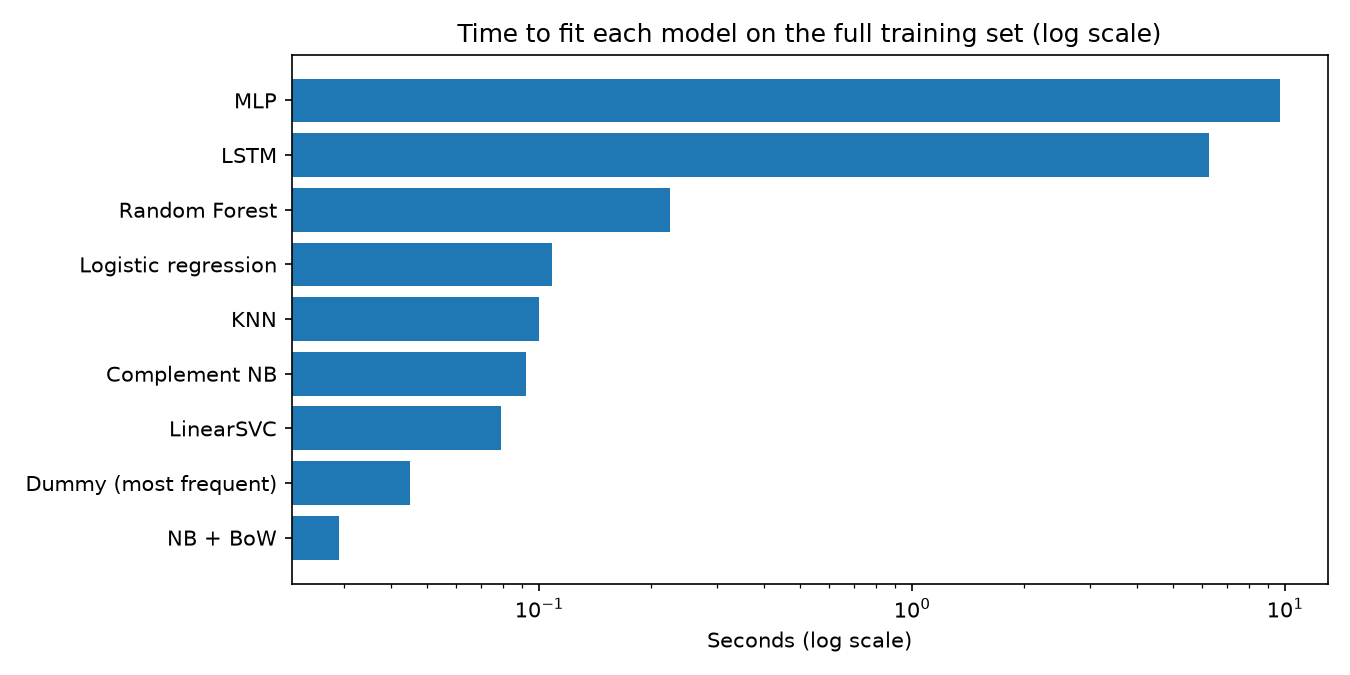
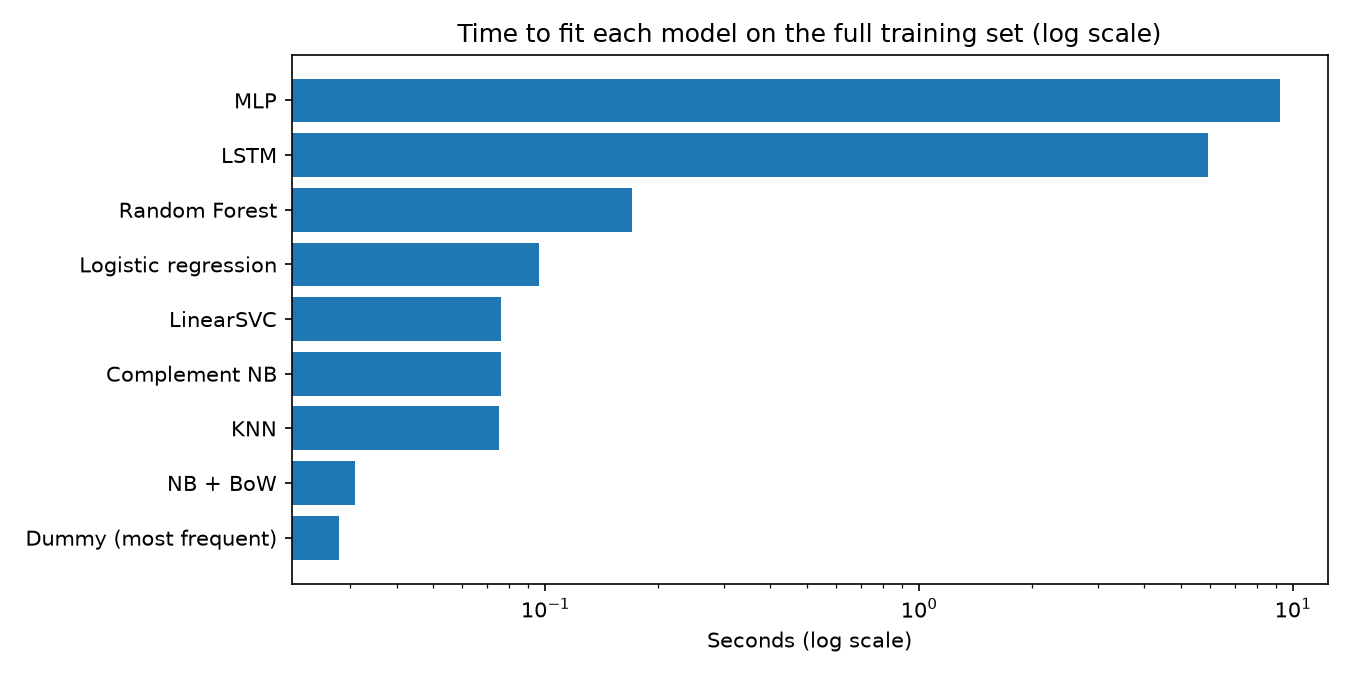
Q2.2: rule-based enhancement (grid search + targeted fixes), Rule 2 selects logistic regression, final test once

diff --git a/notebooks/Q1_Q2_abstract_classification.py b/notebooks/Q1_Q2_abstract_classification.py
@@ -676,14 +676,16 @@ def build_lstm():
     model.compile(optimizer="adam", loss="binary_crossentropy")
     return model
 
-def fit_lstm(x_texts, y_labels, seed):
+#def fit_lstm(x_texts, y_labels, seed):
+def fit_lstm(x_texts, y_labels, seed, class_weight=None):
     keras.utils.set_random_seed(seed)
     tv = layers.TextVectorization(max_tokens=VOCAB, output_sequence_length=SEQ_LEN)
     tv.adapt(x_texts.values)                           # vocabulary from the training part only
     model = build_lstm()
     stop = keras.callbacks.EarlyStopping(monitor="val_loss", patience=5, restore_best_weights=True)
     model.fit(tv(x_texts.values), (y_labels == "ai").astype(int).values, epochs=40, batch_size=32,
-              validation_split=0.15, callbacks=[stop], verbose=0)
+#              validation_split=0.15, callbacks=[stop], verbose=0)
+              validation_split=0.15, callbacks=[stop], verbose=0, class_weight=class_weight)
     return tv, model
 
 def predict_lstm(tv, model, x_texts):
@@ -768,3 +770,181 @@ ax.set_xscale("log")
 ax.set_title("Time to fit each model on the full training set (log scale)")
 ax.set_xlabel("Seconds (log scale)")
 savefig(fig, "Q2_04_fit_time")
+
+# %% Q2.2 (A) The rules, written BEFORE any tuning is run
+# Rule 1 (which models are tuned): tune every model whose grid search fits the time budget;
+#         a model that does not fit gets ONE targeted fix for its diagnosed weakness instead.
+# Rule 2 (which tuned model is final): highest tuned CV macro-F1. Models within TIE_MARGIN of the best
+#         are treated as tied and separated by TIE_BREAK, in order.
+# TIE_MARGIN is fixed: it is only revisited if all seven models tie.
+from sklearn.model_selection import GridSearchCV
+
+TIME_BUDGET_S = 300            # 5 minutes per model
+TIE_MARGIN    = 0.01           # smaller than every model's fold std (~0.015-0.04), so a smaller gap is noise
+TIE_BREAK     = ["gives probabilities", "lower fold std", "higher CV AI recall", "faster fit"]
+
+def feature_grid(extra):
+    # Same feature options for every model: counts or TF-IDF, unigrams or uni+bigrams, min_df 1 or 2
+    common = {"v__ngram_range": [(1, 1), (1, 2)], "v__min_df": [1, 2], **extra}
+    return [{"v": [CountVectorizer()], **common},
+            {"v": [TfidfVectorizer()], "v__sublinear_tf": [False, True], **common}]
+
+grids = {
+    "Complement NB":       feature_grid({"m__alpha": [0.01, 0.03, 0.1, 0.3, 1.0]}),
+    "Logistic regression": feature_grid({"m__C": [0.1, 1, 10, 100, 300, 1000], "m__class_weight": [None, "balanced"]}),
+    "LinearSVC":           feature_grid({"m__C": [0.1, 0.5, 1, 5, 10, 20], "m__class_weight": [None, "balanced"]}),
+    "Random Forest":       feature_grid({"m__max_features": ["sqrt", "log2"], "m__min_samples_leaf": [1, 2],
+                                         "m__class_weight": [None, "balanced"]}),
+    "KNN":                 feature_grid({"m__n_neighbors": [3, 5, 11, 21, 31], "m__weights": ["uniform", "distance"]}),
+    "MLP":                 feature_grid({"m__alpha": [1e-4, 1e-3, 1e-2], "m__hidden_layer_sizes": [(50,), (100,)]}),
+}
+tunable_models = {
+    "Complement NB": ComplementNB(), "Logistic regression": LogisticRegression(max_iter=3000),
+    "LinearSVC": LinearSVC(max_iter=20000), "Random Forest": RandomForestClassifier(random_state=SEED, n_jobs=-1),
+    "KNN": KNeighborsClassifier(), "MLP": MLPClassifier(random_state=SEED, max_iter=300),
+}
+
+def n_combos(grid):
+    total = 0
+    for sub in grid:
+        n = 1
+        for values in sub.values():
+            n *= len(values)
+        total += n
+    return total
+
+# %% Q2.2 (B) Test the rules against every model, BEFORE tuning
+LSTM_GRID_SIZE = 12   # e.g. 3 layer sizes x 2 class weightings x 2 learning rates - the smallest sensible LSTM grid
+rule_tests = []
+for name in list(tunable_models) + ["LSTM"]:
+    size = LSTM_GRID_SIZE if name == "LSTM" else n_combos(grids[name])
+    est_s = q21_results.loc[name, "fit time (s)"] * size * 5      # one fit x combinations x 5 folds (sequential, so conservative)
+    has_proba = True if name == "LSTM" else hasattr(tunable_models[name], "predict_proba")
+    rule_tests.append({"model": name, "grid combinations": size, "est. search time (s)": round(est_s),
+                       "within 5-min budget": est_s <= TIME_BUDGET_S, "gives probabilities": has_proba})
+rule_tests = pd.DataFrame(rule_tests).set_index("model")
+rule_tests["Rule 1 decision"] = np.where(rule_tests["within 5-min budget"], "full grid search", "one targeted fix")
+print(rule_tests.to_string())
+rule_tests.to_csv(TAB / "Q2_02_rule_tests.csv")
+
+# %% Q2.2 (C) Run the grid searches for every model that passed Rule 1
+tuned = {}
+for name in rule_tests.index[rule_tests["within 5-min budget"]]:
+    t0 = time.perf_counter()
+    gs = GridSearchCV(Pipeline([("v", TfidfVectorizer()), ("m", tunable_models[name])]), grids[name],
+                      scoring=scoring, refit="f1_macro", cv=cv, n_jobs=-1, return_train_score=True)
+    gs.fit(X_tr, y_tr)                                   # training data only - the test set is not touched
+    tuned[name] = gs
+    print(f"{name:20s} {n_combos(grids[name]):4d} combos in {time.perf_counter() - t0:6.1f} s | "
+          f"best CV macro-F1 {gs.best_score_:.3f} | "
+          f"{ {k: (type(v).__name__ if k == 'v' else v) for k, v in gs.best_params_.items()} }")
+
+# %% Q2.2 (D) Targeted fixes for the models that failed Rule 1's time budget
+# MLP - diagnosed weakness: overfitting (CV train 1.000 vs validation 0.817). Fix: early stopping.
+mlp_fix = Pipeline([("v", tfidf()), ("m", MLPClassifier(random_state=SEED, max_iter=300, early_stopping=True))])
+r = cross_validate(mlp_fix, X_tr, y_tr, cv=cv, scoring=scoring, return_train_score=True)
+fixes = {"MLP": {"fix": "early_stopping=True", "CV train macro-F1": r["train_f1_macro"].mean(),
+                 "CV macro-F1": r["test_f1_macro"].mean(), "CV std": r["test_f1_macro"].std(),
+                 "CV AI recall": r["test_ai_recall"].mean()}}
+print("MLP fix done")
+
+# LSTM - diagnosed weakness: collapses to the majority class (AI recall 0.222). Fix: class weights.
+tr_f1, va_f1, va_rec = [], [], []
+for k, (a, b) in enumerate(cv.split(X_tr, y_tr)):
+    ya = y_tr.iloc[a]
+    cw = {0: 1.0, 1: (ya == "classical").sum() / (ya == "ai").sum()}   # weight AI by the class ratio in this fold
+    tv, m = fit_lstm(X_tr.iloc[a], ya, SEED + k, class_weight=cw)
+    tr_f1.append(f1_score(ya, predict_lstm(tv, m, X_tr.iloc[a]), average="macro"))
+    pb = predict_lstm(tv, m, X_tr.iloc[b])
+    va_f1.append(f1_score(y_tr.iloc[b], pb, average="macro"))
+    va_rec.append(recall_score(y_tr.iloc[b], pb, pos_label="ai"))
+    print(f"LSTM (class-weighted) fold {k + 1}/5 done")
+fixes["LSTM"] = {"fix": "class weights", "CV train macro-F1": np.mean(tr_f1), "CV macro-F1": np.mean(va_f1),
+                 "CV std": np.std(va_f1), "CV AI recall": np.mean(va_rec)}
+
+# %% Q2.2 (E) Before vs after for all seven, then apply Rule 2 to choose the final model
+rows = []
+for name, gs in tuned.items():
+    i = gs.best_index_
+    rows.append({"model": name, "enhancement": "grid search",
+                 "default CV macro-F1": q21_results.loc[name, "CV val macro-F1"],
+                 "enhanced CV macro-F1": gs.best_score_, "enhanced CV std": gs.cv_results_["std_test_f1_macro"][i],
+                 "enhanced CV AI recall": gs.cv_results_["mean_test_ai_recall"][i],
+                 "enhanced CV train macro-F1": gs.cv_results_["mean_train_f1_macro"][i],
+                 "fit time (s)": gs.refit_time_, "gives probabilities": rule_tests.loc[name, "gives probabilities"]})
+for name, f in fixes.items():
+    rows.append({"model": name, "enhancement": f["fix"],
+                 "default CV macro-F1": q21_results.loc[name, "CV val macro-F1"],
+                 "enhanced CV macro-F1": f["CV macro-F1"], "enhanced CV std": f["CV std"],
+                 "enhanced CV AI recall": f["CV AI recall"], "enhanced CV train macro-F1": f["CV train macro-F1"],
+                 "fit time (s)": q21_results.loc[name, "fit time (s)"], "gives probabilities": True})
+enhanced = pd.DataFrame(rows).set_index("model")
+enhanced["gain"] = enhanced["enhanced CV macro-F1"] - enhanced["default CV macro-F1"]
+enhanced["beats NB baseline (0.843)"] = enhanced["enhanced CV macro-F1"] > nb_cv
+enhanced = enhanced.sort_values("enhanced CV macro-F1", ascending=False)
+print(enhanced.round(3).to_string())
+enhanced.round(4).to_csv(TAB / "Q2_03_enhanced_vs_default.csv")
+
+# Rule 2
+best = enhanced["enhanced CV macro-F1"].max()
+tied = enhanced[enhanced["enhanced CV macro-F1"] >= best - TIE_MARGIN].copy()
+print(f"\nBest enhanced CV macro-F1 = {best:.4f}; tied (within {TIE_MARGIN}):", list(tied.index))
+ranked = tied.sort_values(["gives probabilities", "enhanced CV std", "enhanced CV AI recall", "fit time (s)"],
+                          ascending=[False, True, False, True])          # TIE_BREAK order, applied in sequence
+print(ranked[["enhanced CV macro-F1", "gives probabilities", "enhanced CV std",
+              "enhanced CV AI recall", "fit time (s)"]].round(4).to_string())
+final_name = ranked.index[0]
+print("\nFinal model by Rule 2:", final_name)
+
+# %% Q2.2 (F) Charts: default vs enhanced for all seven, and the tuning heatmap for the final model
+fig, ax = plt.subplots(figsize=(11, 5))
+xpos = np.arange(len(enhanced))
+ax.bar(xpos - 0.2, enhanced["default CV macro-F1"], 0.4, label="default (Q2.1)")
+ax.bar(xpos + 0.2, enhanced["enhanced CV macro-F1"], 0.4, label="enhanced (Q2.2)",
+       yerr=enhanced["enhanced CV std"], capsize=3)
+ax.axhline(nb_cv, linestyle="--", color="tab:red", label=f"NB baseline ({nb_cv:.3f})")
+ax.set_xticks(xpos, enhanced.index, rotation=30, ha="right")
+ax.set_ylim(0, 1.1)
+ax.set_ylabel("CV macro-F1")
+ax.set_title("Default vs enhanced CV macro-F1 per model (error bars = +/- 1 std across folds)")
+ax.legend(loc="upper center", ncol=3)
+savefig(fig, "Q2_05_default_vs_enhanced")
+
+res = pd.DataFrame(tuned[final_name].cv_results_)
+res["class_weight"] = res["param_m__class_weight"].fillna("None")   # pandas stores None as NaN
+heat = res.pivot_table(index="class_weight", columns="param_m__C", values="mean_test_f1_macro", aggfunc="max")
+fig, ax = plt.subplots(figsize=(8, 3.5))
+ax.imshow(heat.values, cmap="viridis", vmin=0.6, vmax=0.9)
+ax.set_xticks(range(heat.shape[1]), heat.columns)
+ax.set_yticks(range(heat.shape[0]), heat.index)
+for i in range(heat.shape[0]):
+    for j in range(heat.shape[1]):
+        ax.text(j, i, f"{heat.values[i, j]:.3f}", ha="center", va="center", color="white")
+ax.set_title(f"{final_name}: best CV macro-F1 for each C and class_weight")
+ax.set_xlabel("C (higher = weaker regularisation)")
+ax.set_ylabel("class_weight")
+savefig(fig, "Q2_06_tuning_heatmap")
+
+# %% Q2.2 (G) The ONE test-set evaluation of the final model
+final_model = tuned[final_name].best_estimator_       # already refit on all 895 training abstracts
+final_pred = final_model.predict(X_te)
+default_pred = test_preds[final_name]
+test_compare = pd.DataFrame({
+    f"{final_name} default": [f1_score(y_te, default_pred, average="macro"), balanced_accuracy_score(y_te, default_pred),
+                              recall_score(y_te, default_pred, pos_label="ai")],
+    f"{final_name} enhanced (final)": [f1_score(y_te, final_pred, average="macro"), balanced_accuracy_score(y_te, final_pred),
+                              recall_score(y_te, final_pred, pos_label="ai")],
+    "NB baseline": [f1_score(y_te, nb_pred, average="macro"), balanced_accuracy_score(y_te, nb_pred),
+                    recall_score(y_te, nb_pred, pos_label="ai")],
+}, index=["test macro-F1", "test balanced acc.", "test AI recall"]).round(3)
+print(test_compare.to_string())
+test_compare.to_csv(TAB / "Q2_04_final_test.csv")
+print(classification_report(y_te, final_pred, digits=3))
+
+fig, axes = plt.subplots(1, 3, figsize=(15, 4.5))
+for ax, (title, pred) in zip(axes, [("NB baseline", nb_pred), (f"{final_name} default", default_pred),
+                                    (f"{final_name} enhanced (final)", final_pred)]):
+    ConfusionMatrixDisplay.from_predictions(y_te, pred, labels=["ai", "classical"], ax=ax, colorbar=False)
+    ax.set_title(title)
+fig.suptitle("Test set: baseline vs default vs enhanced final model")
+savefig(fig, "Q2_07_final_confusion_matrices")
